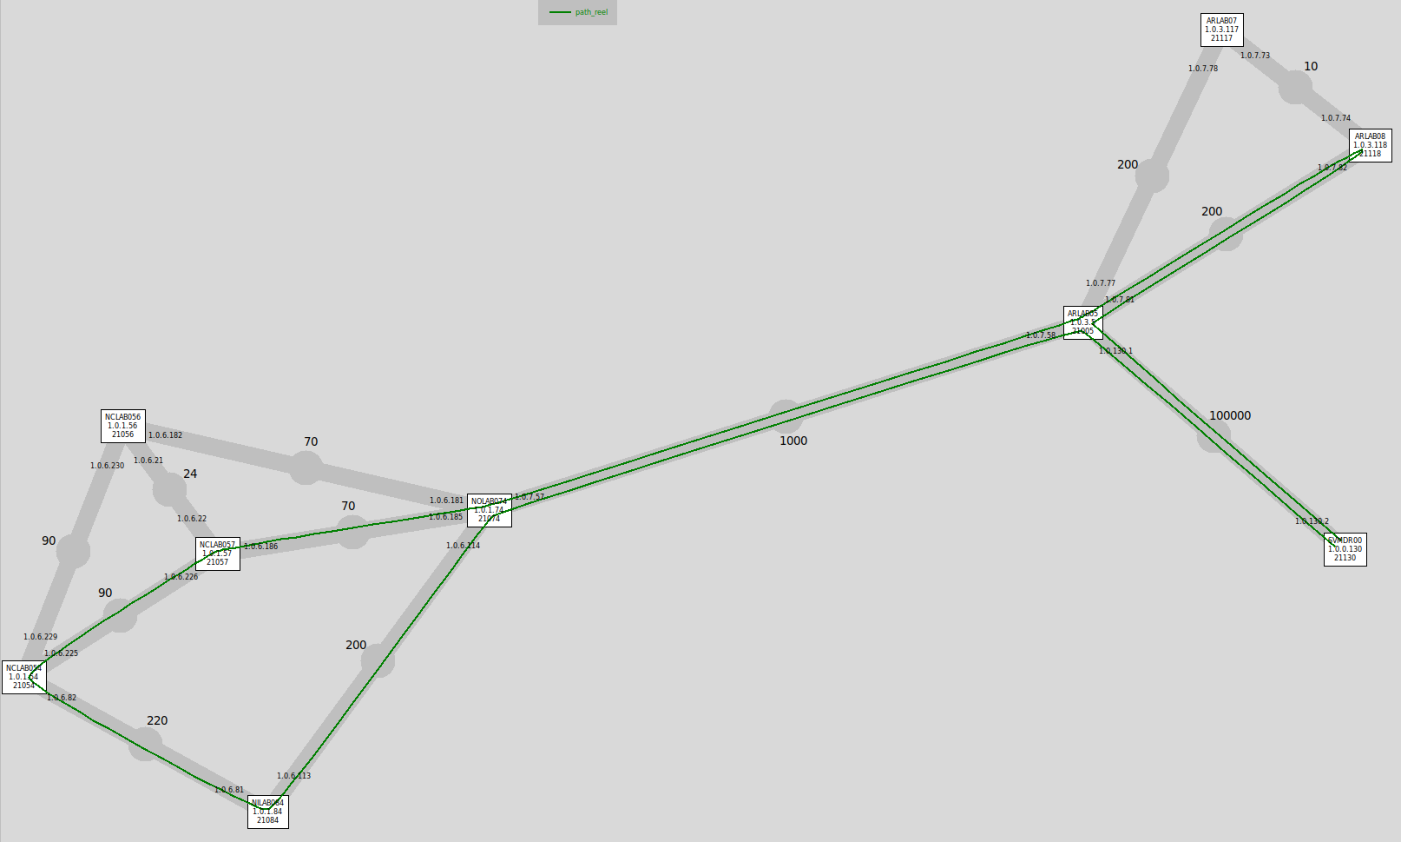
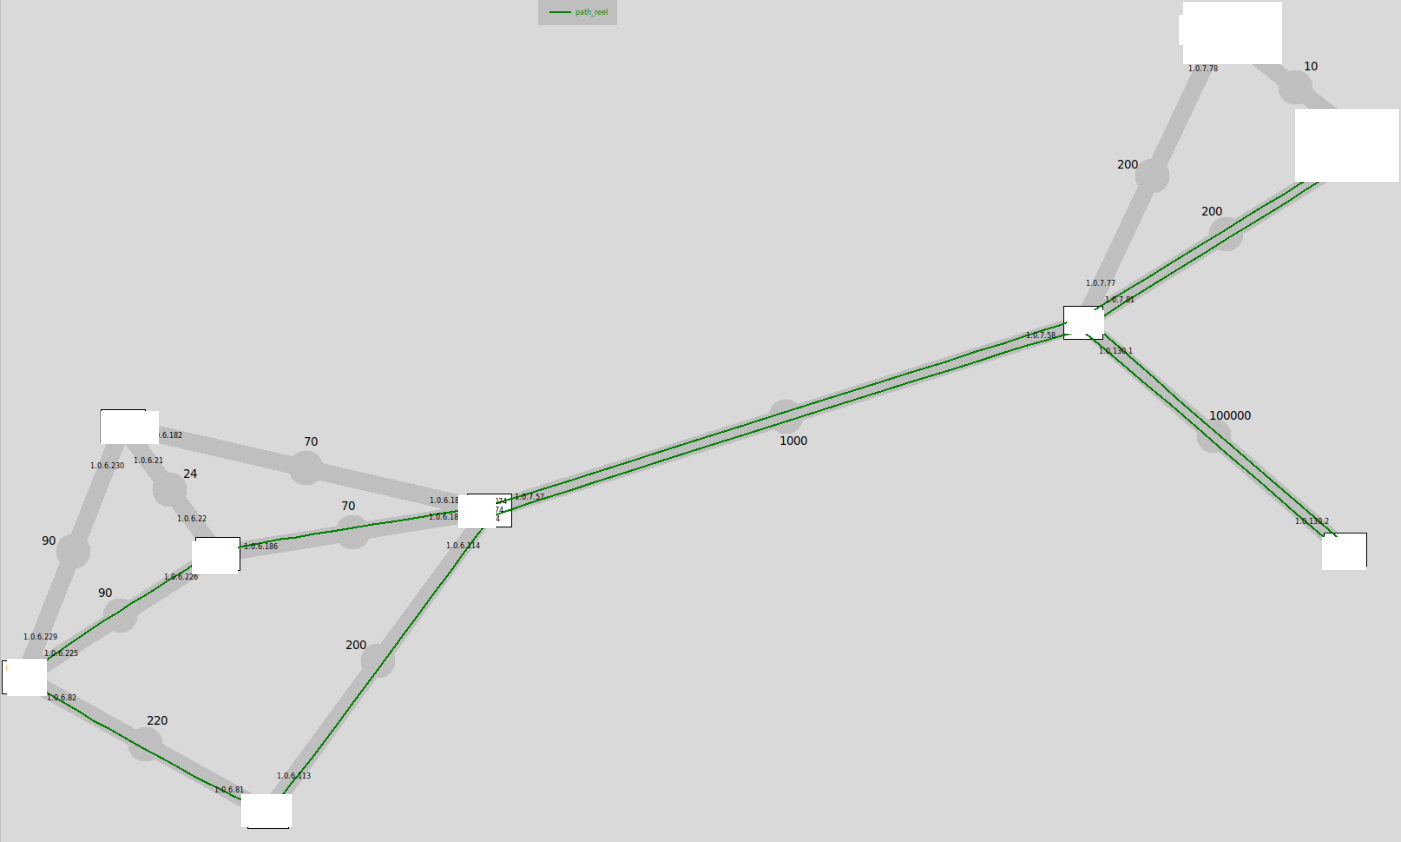
Orange figures, skill levels, language flags, PAM rename
- 4 nouvelles figures Orange (syscalls twping avant/apres, pipeline port
  mirroring/edgra, paquets transit vs OPTIP, paquets sandwich en log)
- Cartographie : hostnames et IP de noeuds masques (interieur des boites
  efface, bordures conservees) — verifie sans fuite NCLAB/ARLAB/NOLAB/AXMORD
- Competences : nuances avance (plein) / intermediaire (contour) reprises du
  CV, distinguables en themes clair ET sombre, avec legende
- Langues : drapeaux SVG inline (FR, GB, ES, CN)
- Projets : PAMIA renomme PAM ; A propos : 40:1 et 24 µs retires

diff --git a/src/components/Education.tsx b/src/components/Education.tsx
@@ -36,30 +36,70 @@ const CERTIFICATIONS = [
 ]
 
 const LANGUAGES = [
-  'Français — natif',
-  'Anglais — professionnel',
-  'Espagnol — intermédiaire',
-  'Chinois — intermédiaire',
+  { code: 'fr', name: 'Français', level: 'natif' },
+  { code: 'gb', name: 'Anglais', level: 'professionnel' },
+  { code: 'es', name: 'Espagnol', level: 'intermédiaire' },
+  { code: 'cn', name: 'Chinois', level: 'intermédiaire' },
 ]
 
-function ChipList({ items, label }: { items: string[]; label: string }) {
+type LanguageCode = (typeof LANGUAGES)[number]['code']
+
+function FlagFr() {
   return (
-    <div>
-      <h3 className="font-mono text-xs font-medium uppercase tracking-[0.18em] text-muted">
-        {label}
-      </h3>
-      <ul className="mt-4 flex flex-wrap gap-2">
-        {items.map((item) => (
-          <li
-            key={item}
-            className="rounded-full border border-line bg-ice-soft px-2.5 py-1 font-mono text-[11px] text-ink"
-          >
-            {item}
-          </li>
-        ))}
-      </ul>
-    </div>
+    <svg viewBox="0 0 3 2" className="h-3.5 w-5 rounded-[2px]" aria-hidden="true">
+      <rect width="1" height="2" fill="#0055A4" />
+      <rect x="1" width="1" height="2" fill="#ffffff" />
+      <rect x="2" width="1" height="2" fill="#EF4135" />
+    </svg>
   )
+}
+
+function FlagGb() {
+  return (
+    <svg viewBox="0 0 60 40" className="h-3.5 w-5 rounded-[2px]" aria-hidden="true">
+      <rect width="60" height="40" fill="#012169" />
+      <path d="M0 0 60 40 M60 0 0 40" stroke="#ffffff" strokeWidth="8" />
+      <path d="M0 0 60 40 M60 0 0 40" stroke="#C8102E" strokeWidth="3.5" />
+      <path d="M30 0 V40 M0 20 H60" stroke="#ffffff" strokeWidth="13" />
+      <path d="M30 0 V40 M0 20 H60" stroke="#C8102E" strokeWidth="7" />
+    </svg>
+  )
+}
+
+function FlagEs() {
+  return (
+    <svg viewBox="0 0 3 2" className="h-3.5 w-5 rounded-[2px]" aria-hidden="true">
+      <rect width="3" height="2" fill="#AA151B" />
+      <rect y="0.5" width="3" height="1" fill="#F1BF00" />
+    </svg>
+  )
+}
+
+function FlagCn() {
+  return (
+    <svg viewBox="0 0 30 20" className="h-3.5 w-5 rounded-[2px]" aria-hidden="true">
+      <rect width="30" height="20" fill="#DE2910" />
+      <defs>
+        <path
+          id="cn-star"
+          d="M0 -1 0.294 -0.405 0.951 -0.309 0.476 0.154 0.588 0.809 0 0.5 -0.588 0.809 -0.476 0.154 -0.951 -0.309 -0.294 -0.405Z"
+          fill="#FFDE00"
+        />
+      </defs>
+      <use href="#cn-star" transform="translate(5 5) scale(3)" />
+      <use href="#cn-star" transform="translate(10 2) scale(1)" />
+      <use href="#cn-star" transform="translate(12 4) scale(1)" />
+      <use href="#cn-star" transform="translate(12 7) scale(1)" />
+      <use href="#cn-star" transform="translate(10 9) scale(1)" />
+    </svg>
+  )
+}
+
+const FLAGS: Record<LanguageCode, () => React.JSX.Element> = {
+  fr: FlagFr,
+  gb: FlagGb,
+  es: FlagEs,
+  cn: FlagCn,
 }
 
 export default function Education() {
@@ -87,8 +127,41 @@ export default function Education() {
         </div>
 
         <Reveal className="mt-16 grid gap-10 border-t border-line pt-12 md:grid-cols-2">
-          <ChipList items={CERTIFICATIONS} label="Certifications" />
-          <ChipList items={LANGUAGES} label="Langues" />
+          <div>
+            <h3 className="font-mono text-xs font-medium uppercase tracking-[0.18em] text-muted">
+              Certifications
+            </h3>
+            <ul className="mt-4 flex flex-wrap gap-2">
+              {CERTIFICATIONS.map((item) => (
+                <li
+                  key={item}
+                  className="rounded-full border border-line bg-ice-soft px-2.5 py-1 font-mono text-[11px] text-ink"
+                >
+                  {item}
+                </li>
+              ))}
+            </ul>
+          </div>
+          <div>
+            <h3 className="font-mono text-xs font-medium uppercase tracking-[0.18em] text-muted">
+              Langues
+            </h3>
+            <ul className="mt-4 flex flex-wrap gap-2.5">
+              {LANGUAGES.map((language) => {
+                const Flag = FLAGS[language.code]
+                return (
+                  <li
+                    key={language.code}
+                    className="flex items-center gap-2.5 rounded-full border border-line bg-card px-3 py-1.5"
+                  >
+                    <Flag />
+                    <span className="text-sm font-medium text-ink">{language.name}</span>
+                    <span className="font-mono text-[11px] text-muted">{language.level}</span>
+                  </li>
+                )
+              })}
+            </ul>
+          </div>
         </Reveal>
       </div>
     </section>

diff --git a/src/components/Skills.tsx b/src/components/Skills.tsx
@@ -1,10 +1,28 @@
 import Reveal from './Reveal'
 import SectionHead from './SectionHead'
 
-const SKILL_GROUPS = [
+type SkillLevel = 'avance' | 'intermediaire'
+
+interface Skill {
+  name: string
+  level: SkillLevel
+}
+
+interface SkillGroup {
+  title: string
+  skills: Skill[]
+}
+
+/* Niveaux repris du CV : Avancé / Intermédiaire. */
+const advanced = (names: string[]): Skill[] => names.map((name) => ({ name, level: 'avance' }))
+
+const intermediate = (names: string[]): Skill[] =>
+  names.map((name) => ({ name, level: 'intermediaire' }))
+
+const SKILL_GROUPS: SkillGroup[] = [
   {
     title: 'Réseau & protocoles',
-    items: [
+    skills: advanced([
       'TCP/IP',
       'MPLS/SR-MPLS',
       'TWAMP',
@@ -12,17 +30,17 @@ const SKILL_GROUPS = [
       'IOAM',
       'OWAMP',
       'IPSec',
-      'ISIS',
       'Routage',
+      'ISIS',
       'QoS (DSCP)',
       'NTP',
       'SR-IOV',
       'ZigBee',
-    ],
+    ]),
   },
   {
     title: 'Équipements & analyse',
-    items: [
+    skills: advanced([
       'Cisco',
       'Juniper',
       'Nokia',
@@ -33,49 +51,54 @@ const SKILL_GROUPS = [
       'Tcpdump',
       'Tshark',
       'Perfsonar',
-    ],
+    ]),
   },
   {
     title: 'Développement',
-    items: [
-      'Shell',
-      'AWK',
-      'Bash',
-      'Python',
-      'TypeScript',
-      'Java',
-      'SQL',
-      'Angular',
-      'React',
-      'Spring',
-      'HTML/CSS',
-      'C',
-      'C++',
-      'JavaScript',
-      'PHP',
-      'PowerShell',
-      'MATLAB',
+    skills: [
+      ...advanced([
+        'Shell',
+        'AWK',
+        'Bash',
+        'Python',
+        'TypeScript',
+        'Java',
+        'SQL',
+        'Angular',
+        'React',
+        'Spring',
+        'HTML/CSS',
+        'MATLAB',
+      ]),
+      ...intermediate(['C', 'C++', 'JavaScript', 'PHP', 'PowerShell']),
     ],
   },
   {
     title: 'DevOps & outils',
-    items: [
-      'Docker',
-      'Kubernetes',
-      'Linux',
-      'Ansible',
-      'GitLab',
-      'n8n',
-      'PyTorch',
-      'Gerrit',
-      'Jira',
-      'VS Code',
-      'VMware ESXi',
-      'Home Assistant',
-      'Jeedom',
+    skills: [
+      ...advanced([
+        'Docker',
+        'Kubernetes',
+        'Linux',
+        'Ansible',
+        'GitLab',
+        'n8n',
+        'PyTorch',
+        'Gerrit',
+        'Jira',
+        'VS Code',
+      ]),
+      ...intermediate(['VMware ESXi', 'Home Assistant', 'Jeedom']),
     ],
   },
 ]
+
+/* Classes statiques par niveau (le compilateur Tailwind doit les voir au build). */
+const LEVEL_STYLES: Record<SkillLevel, string> = {
+  avance:
+    'border-line-strong bg-ice-soft text-ink dark:border-ice/40 dark:bg-ice/15 dark:text-ice',
+  intermediaire: 'border-line bg-card text-muted',
+}
 
 export default function Skills() {
   return (
@@ -91,18 +114,35 @@ export default function Skills() {
             >
               <h3 className="font-display text-lg font-semibold text-ink">{group.title}</h3>
               <ul className="mt-4 flex flex-wrap gap-2">
-                {group.items.map((item) => (
+                {group.skills.map((skill) => (
                   <li
-                    key={item}
-                    className="rounded-full border border-line bg-ice-soft px-2.5 py-1 font-mono text-[11px] text-ink"
+                    key={skill.name}
+                    className={`rounded-full border px-2.5 py-1 font-mono text-[11px] ${LEVEL_STYLES[skill.level]}`}
                   >
-                    {item}
+                    {skill.name}
                   </li>
                 ))}
               </ul>
             </Reveal>
           ))}
         </div>
+
+        <Reveal className="mt-6 flex flex-wrap items-center gap-x-4 gap-y-2">
+          <span className="inline-flex items-center gap-2 font-mono text-[11px] text-muted">
+            <span
+              aria-hidden="true"
+              className="inline-block h-3 w-3 rounded-full border border-line-strong bg-ice-soft dark:border-ice/40 dark:bg-ice/15"
+            />
+            avancé
+          </span>
+          <span className="inline-flex items-center gap-2 font-mono text-[11px] text-muted">
+            <span
+              aria-hidden="true"
+              className="inline-block h-3 w-3 rounded-full border border-line bg-card"
+            />
+            intermédiaire
+          </span>
+        </Reveal>
       </div>
     </section>
   )

diff --git a/src/routes/CaseStudyOrange.tsx b/src/routes/CaseStudyOrange.tsx
@@ -2,6 +2,10 @@ import CaseStudyLayout from '../components/CaseStudyLayout'
 import orangeCarto from '../assets/case-studies/orange-carto.png'
 import orangeDatagram from '../assets/case-studies/orange-datagram.png'
 import orangeKalman from '../assets/case-studies/orange-kalman.png'
+import orangeMirroring from '../assets/case-studies/orange-mirroring.png'
+import orangePerfsonarFix from '../assets/case-studies/orange-perfsonar-fix.png'
+import orangeSandwich from '../assets/case-studies/orange-sandwich.png'
+import orangeTransit from '../assets/case-studies/orange-transit.png'
 
 export default function CaseStudyOrange() {
   return (
@@ -25,6 +29,13 @@ export default function CaseStudyOrange() {
         {
           heading: 'Validation des instruments : TWAMP, Perfsonar, tcpdump',
           body: "Conteneurisation de l'outillage sous Alpine Linux — image 40 fois plus légère que Debian (31 Mo contre 1,24 Go) — puis tests avec le simulateur de réseau Anue. Les limites de Perfsonar sont documentées : non-détection de la corruption DSCP, pertes TWAMP dès 1 ms d'intervalle, bug du payload aléatoire corrigé via force-payload-0. La bascule vers tcpdump et l'extraction AWK repousse le seuil de perte à 24 µs — 100 000 paquets émis à 1 ms puis 100 µs d'intervalle sans impact — avec priorité temps réel chrt -f 99 pour twping.",
+          images: [
+            {
+              src: orangePerfsonarFix,
+              alt: "Diagramme de séquence des appels système de twping : ajustements d'horloge à chaque paquet avant modification, simple émission/réception après correction du code source",
+              caption: 'Suppression des ajustements d\u2019horloge de twping — avant / après correction',
+            },
+          ],
         },
         {
           heading: 'Instrumentation du paquet MPLS',
@@ -42,6 +53,11 @@ export default function CaseStudyOrange() {
           body: "Script isis2net.awk : à partir de la base d'état de liens ISIS, placement automatique des constellations de routeurs par l'algorithme Fruchterman-Reingold (Force-Directed Placement), métriques des liens pondérées par médiane, rendu via la bibliothèque interne edgar. Évolution proposée avec l'équipe : un service d'écoute alimentant la cartographie en continu, pour suivre en temps réel les chemins empruntés par les paquets.",
           images: [
             {
+              src: orangeMirroring,
+              alt: "Pipeline de cartographie : génération de paquets par scripts, émission via rawsend, capture par port mirroring tcpdump, traitement AWK et rendu du graphe dans edgra",
+              caption: 'Chaîne de cartographie : port mirroring, traitement AWK et rendu edgra',
+            },
+            {
               src: orangeCarto,
               alt: 'Cartographie du réseau de laboratoire : routeurs interconnectés avec le trajet mis en évidence du paquet utilisant un label MPLS',
               caption: 'Cartographie du réseau de laboratoire — trajet d\u2019un paquet par label MPLS',
@@ -56,6 +72,16 @@ export default function CaseStudyOrange() {
               src: orangeKalman,
               alt: "Courbes de dérive d'horloge d'un routeur avant et après correction par le filtre de Kalman",
               caption: 'Dérive d\u2019horloge corrigée par le filtre de Kalman (ts_kalman.awk)',
+            },
+            {
+              src: orangeTransit,
+              alt: "Comparaison avant/après : paquet horodaté MPLS ICMPTS ou OPTIP (RTT 1,3 ms) contre paquet transit (RTT 100 µs), avec relevés min_transit et graphe de délais et d'horloge",
+              caption: 'Paquets transit vs paquets horodatés — délai réseau réel (100 µs contre 1,3 ms)',
+            },
+            {
+              src: orangeSandwich,
+              alt: "Représentation en échelle logarithmique des délais et horodatages des paquets sandwich : horloge brute, temps retour réseau pur et horloge synchronisée",
+              caption: 'Délais et timestamps des paquets sandwich en échelle logarithmique (Nokia SR7)',
             },
           ],
         },

diff --git a/src/components/Projects.tsx b/src/components/Projects.tsx
@@ -154,7 +154,7 @@ const PROJECTS: Project[] = [
     icon: GaugeIcon,
   },
   {
-    title: 'PAMIA',
+    title: 'PAM',
     category: 'IA · Smart Farming',
     description:
       'Analyse multimodale du comportement de vaches laitières (dataset MMCOWS) : classification de 7 comportements par LSTM/CNN-LSTM et détection de profils atypiques.',

diff --git a/src/components/About.tsx b/src/components/About.tsx
@@ -4,8 +4,6 @@ import SectionHead from './SectionHead'
 const FIGURES = [
   { value: '3', label: "stages d'ingénierie" },
   { value: '905/990', label: 'TOEIC' },
-  { value: '40:1', label: 'ratio de conteneurisation Alpine' },
-  { value: '24 µs', label: 'précision de mesure' },
 ]
 
 export default function About() {
